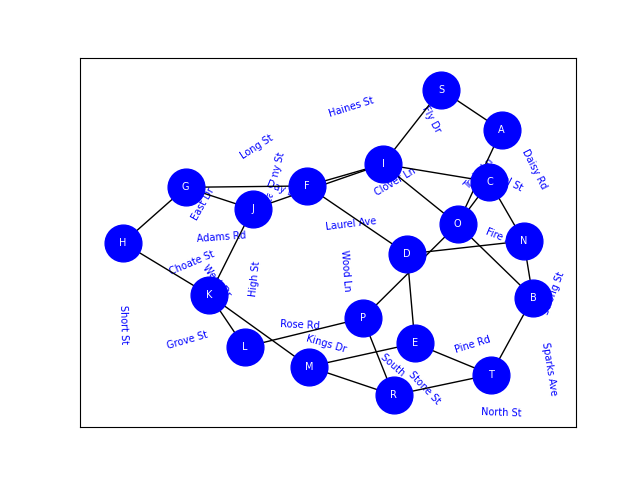
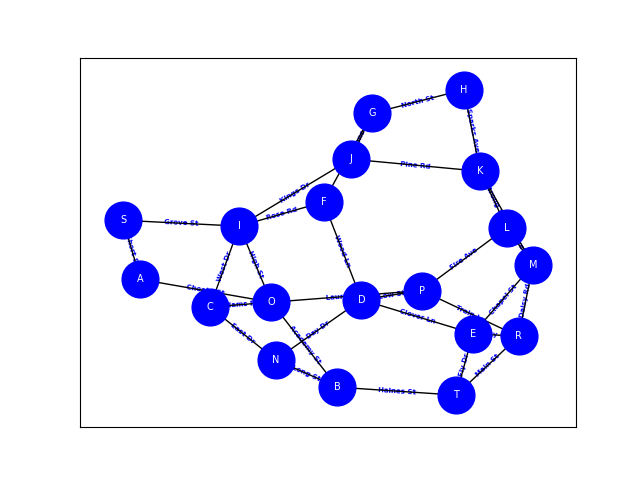
Submitting

Changed region(s): [[0.1562, 0.125, 0.875, 0.875], [0.8438, 0.375, 0.875, 0.4062]]

diff --git a/.github/workflows/dfs-ana.py b/.github/workflows/dfs-ana.py
@@ -39,8 +39,11 @@ g.add_edge("P", "L")
 g.add_edge("M", "K")
 g.add_edge("P", "L")
 g.add_edge("F", "I")
+g.add_edge("R", "E")
+g.add_edge("P", "D")
+g.add_edge("M", "L")
 
-pos= nx.fruchterman_reingold_layout(g)
+pos = nx.fruchterman_reingold_layout(g)
 
 nx.draw_networkx_edge_labels(g,pos, edge_labels = {('A', 'S'):'Short St',
     ('I', 'O') : 'High St',
@@ -68,12 +71,16 @@ nx.draw_networkx_edge_labels(g,pos, edge_labels = {('A', 'S'):'Short St',
     ('L','P') : 'Fire Ave',
     ('B','N') : 'Long St',
     ('E', 'T'): 'Fly Dr',
-    ('P', 'R'): 'Train Ln'}
-    , font_color = "blue", label_pos = .5,horizontalalignment = 'center' ,rotate = True, font_size=7,clip_on = True)
-nx.draw_networkx(g, with_labels=True,node_color="blue",node_size=700, font_color="white", font_size=7)
+    ('P', 'R'): 'Train Ln',
+    ('P', 'D'): 'Low St',
+    ('E', 'R'): 'Sky St',
+    ('T', 'R'): 'Main St',
+    ('L', 'M'): 'Velvet Dr'}
+    , font_color = "blue", label_pos = .5,rotate = True, font_size=5, font_weight = "bold")
+nx.draw_networkx(g, pos, with_labels=True,node_color="blue",node_size=700, font_color="white", font_size=7)
 
 plt.savefig("Ana_graph")
-plt.margins(0)
+plt.margins(0.1)
 plt.show()
 
 print(list(nx.edge_dfs(g,'A')))

diff --git a/index.md b/index.md
@@ -256,7 +256,7 @@ import matplotlib.pyplot as plt
 
 **Visualization**:
 
-![Allys's Neighborhood](/Ally's Neighoorhood.png)
+![Allys's Neighborhood](/Ana_graph.png)
 
 **Solution code:**
 ```python
@@ -266,7 +266,7 @@ import matplotlib.pyplot as plt
 g = nx.Graph()
 nodes = ["A","B","C","D","E","F","G","H"
                   ,"I","J","K","L","M","N","O","P",
-                  "Q", "R","S","T"]
+                  "R","S","T"]
 g.add_nodes_from(nodes)
 
 
@@ -301,9 +301,11 @@ g.add_edge("P", "L")
 g.add_edge("M", "K")
 g.add_edge("P", "L")
 g.add_edge("F", "I")
-g.add_edge("Q", "K")
+g.add_edge("R", "E")
+g.add_edge("P", "D")
+g.add_edge("M", "L")
 
-pos= nx.fruchterman_reingold_layout(g)
+pos = nx.fruchterman_reingold_layout(g)
 
 nx.draw_networkx_edge_labels(g,pos, edge_labels = {('A', 'S'):'Short St',
     ('I', 'O') : 'High St',
@@ -332,15 +334,20 @@ nx.draw_networkx_edge_labels(g,pos, edge_labels = {('A', 'S'):'Short St',
     ('B','N') : 'Long St',
     ('E', 'T'): 'Fly Dr',
     ('P', 'R'): 'Train Ln',
-    ('Q', 'K'): 'Delaware Ln'}
-    , font_color = "blue", label_pos = .5,horizontalalignment = 'center' ,rotate = True, font_size=7,clip_on = True)
-nx.draw_networkx(g, with_labels=True,node_color="blue",node_size=700, font_color="white", font_size=7)
+    ('P', 'D'): 'Low St',
+    ('E', 'R'): 'Sky St',
+    ('T', 'R'): 'Main St',
+    ('L', 'M'): 'Velvet Dr'}
+    , font_color = "blue", label_pos = .5,rotate = True, font_size=5, font_weight = "bold")
+nx.draw_networkx(g, pos, with_labels=True,node_color="blue",node_size=700, font_color="white", font_size=7)
 
 plt.savefig("Ana_graph")
-plt.margins(0)
+plt.margins(0.1)
 plt.show()
 
-print(nx.dfs_edges(g))
+print(list(nx.edge_dfs(g,'A')))
+
+
 
 ```
 
